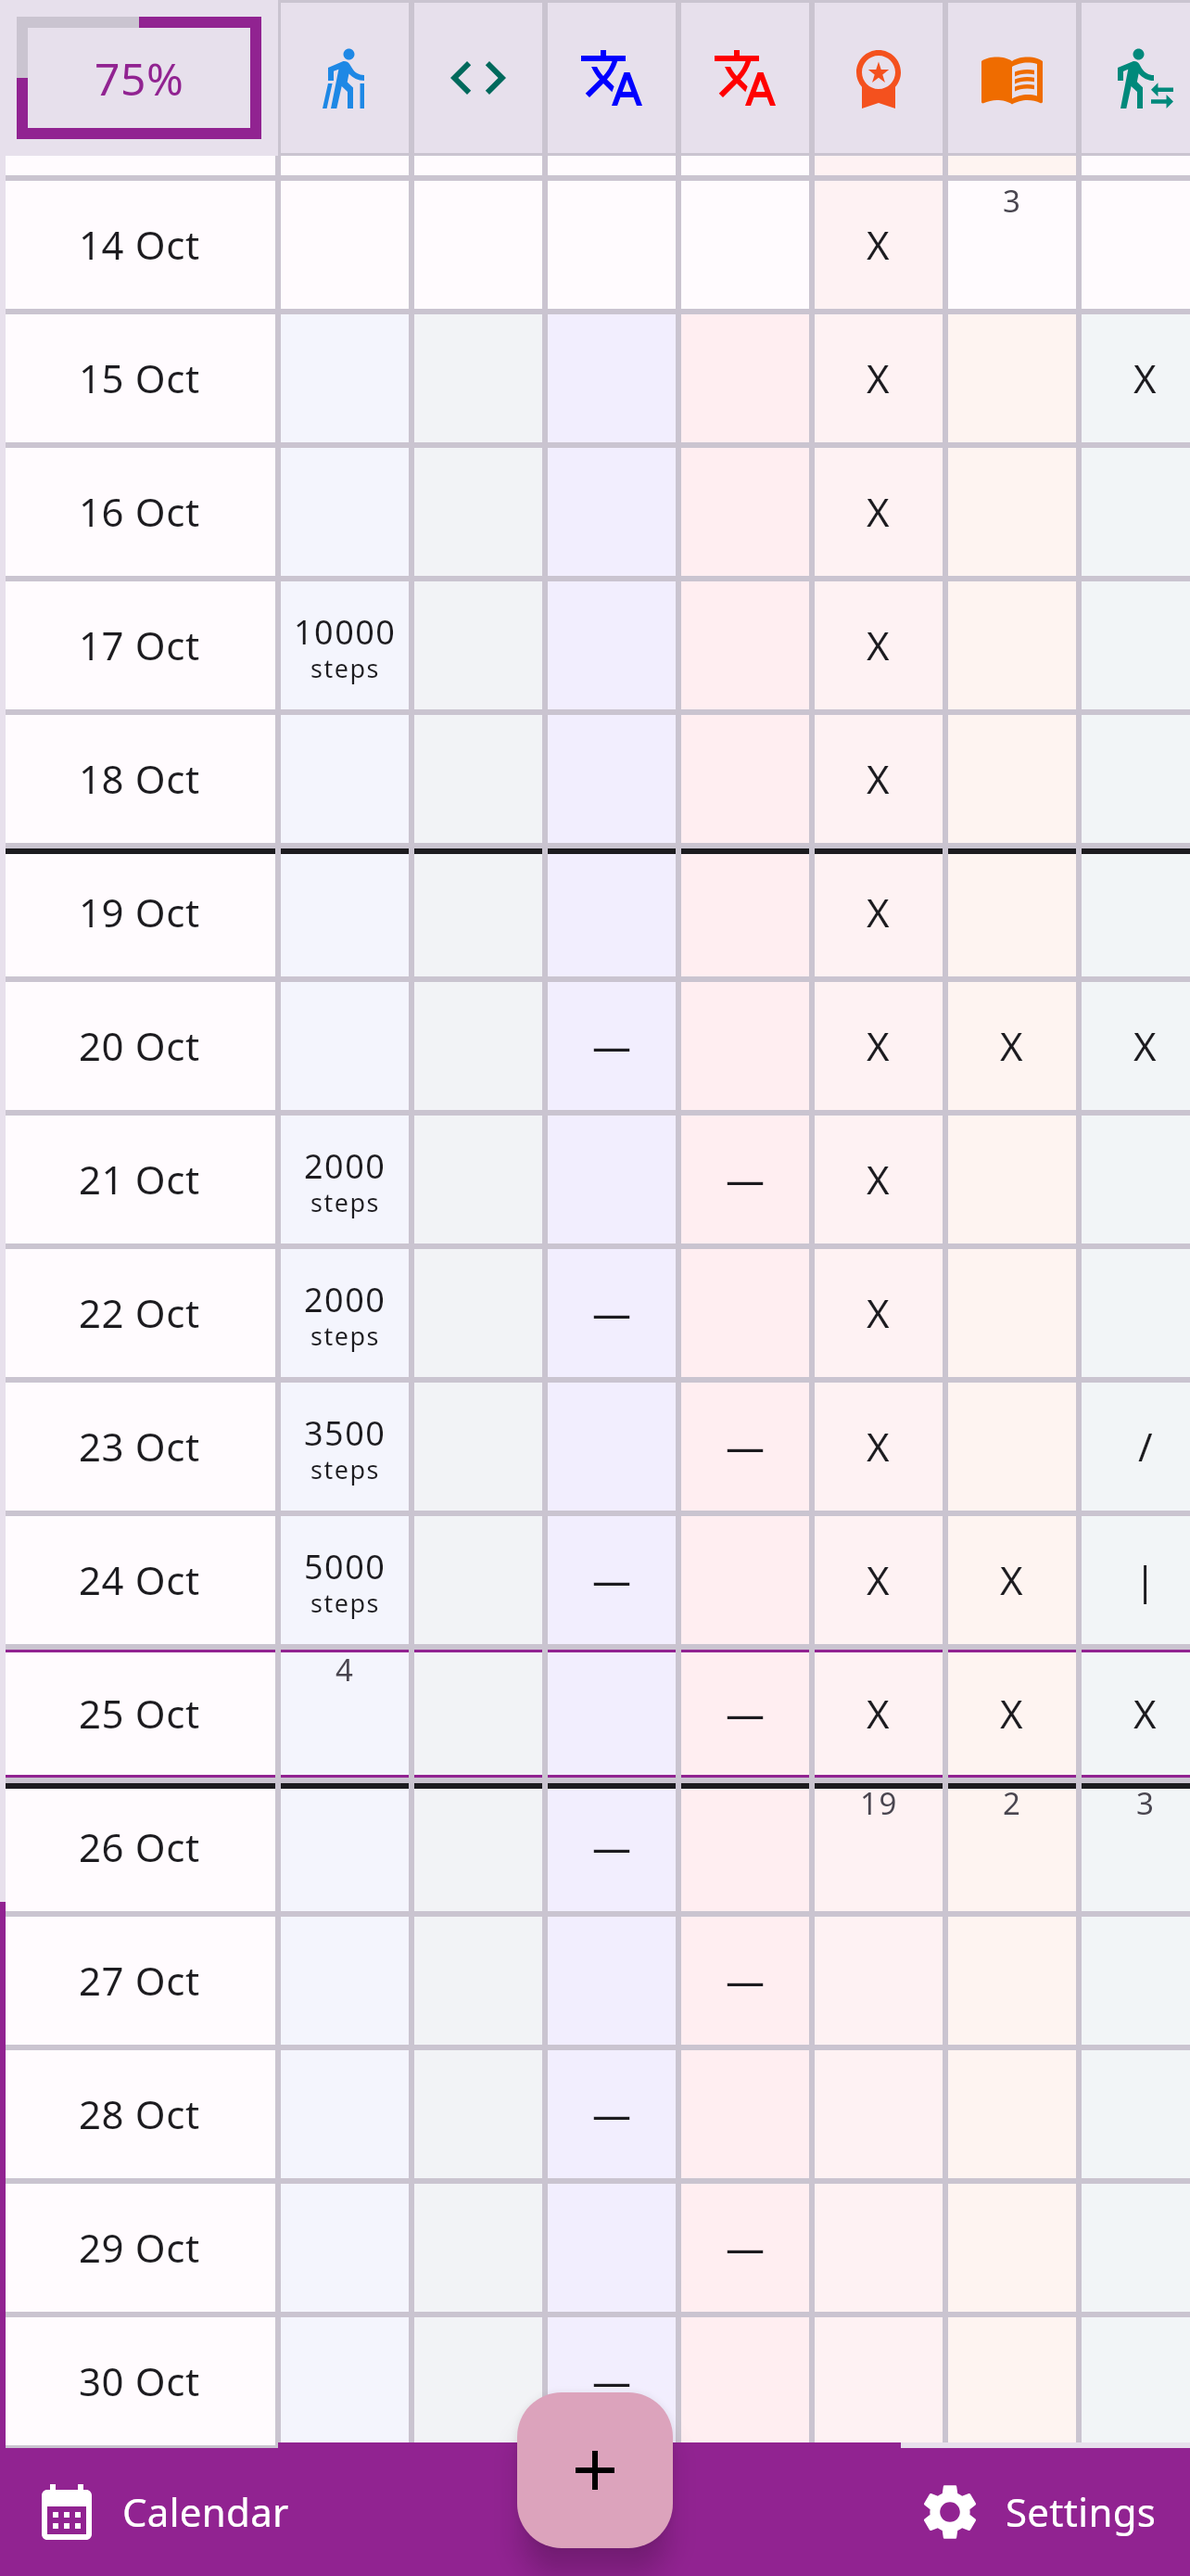
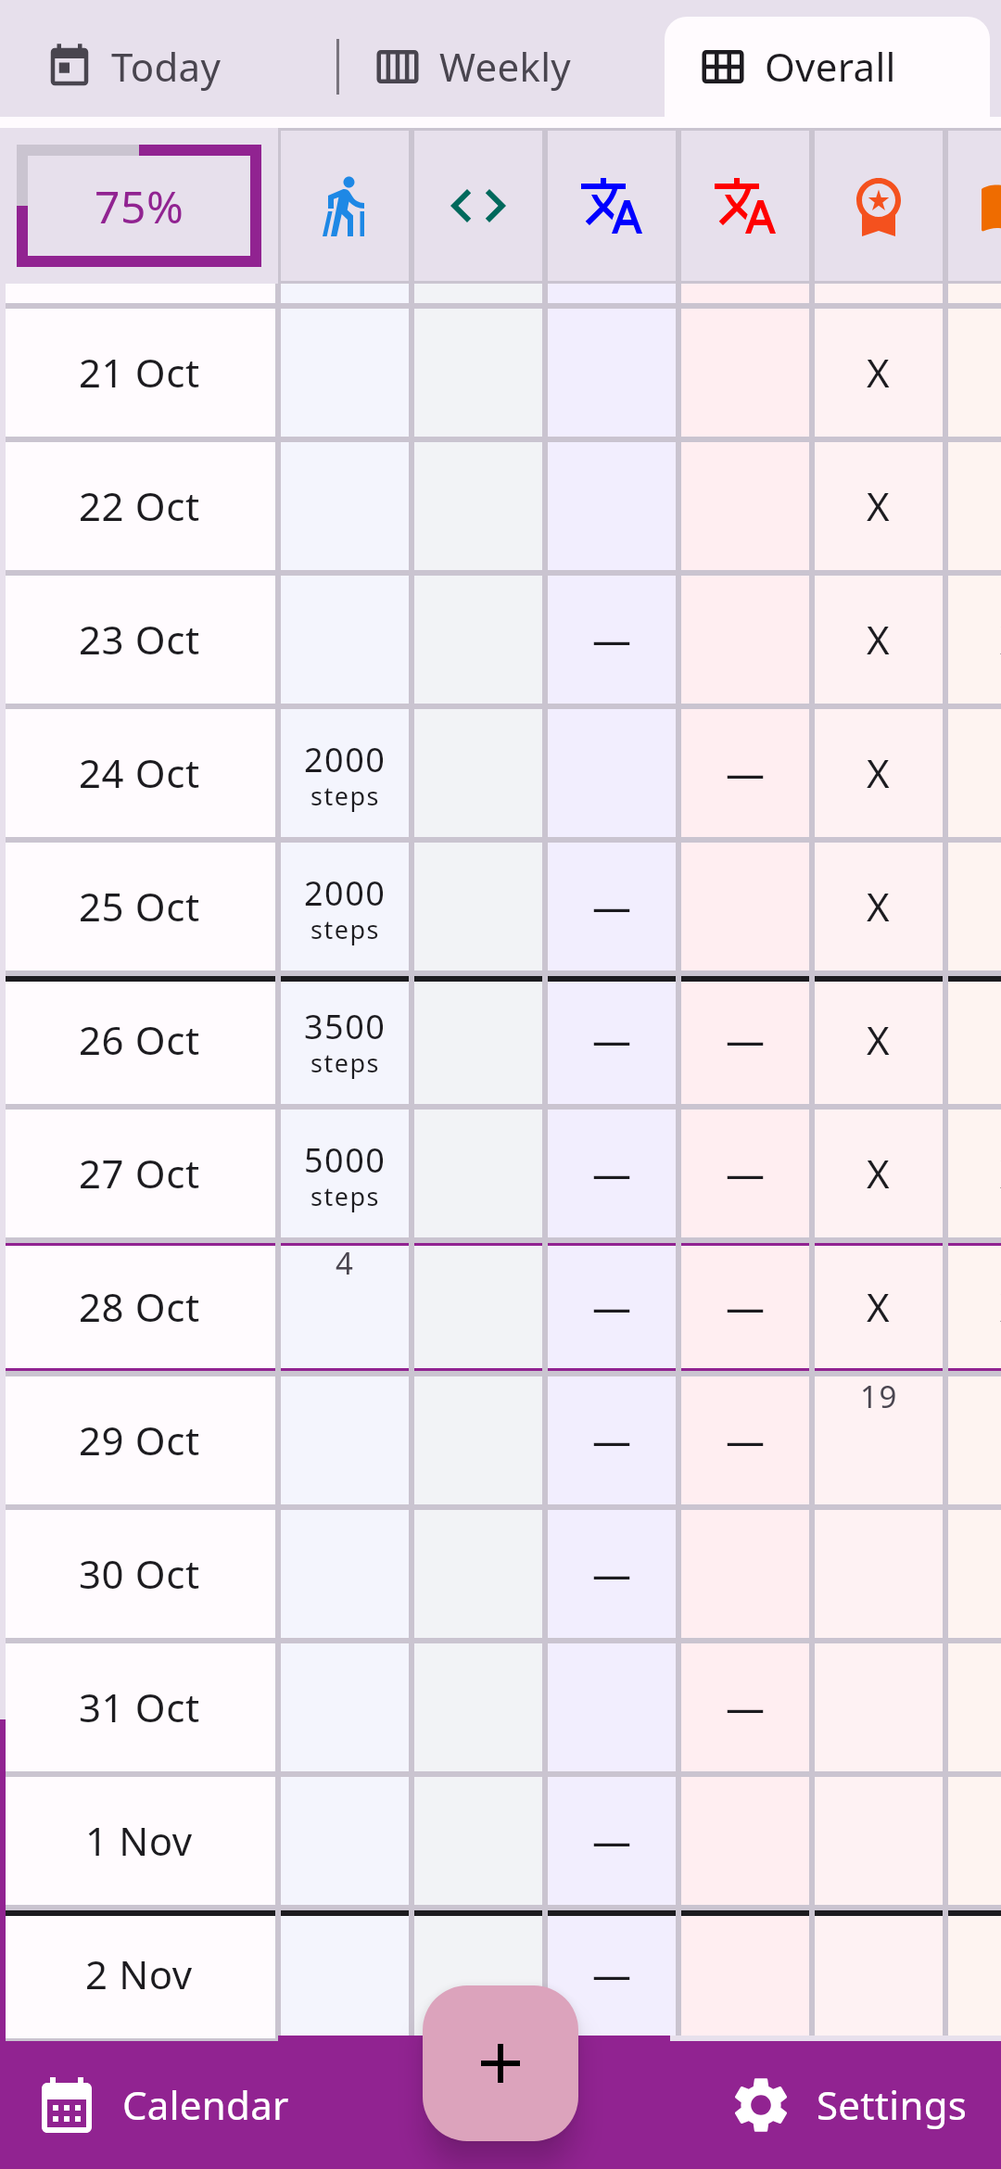
[#65] [NF] Main Page: Weekly Status. Update images

Changed region(s): [[0.0, 0.0, 1.0, 0.9983]]

diff --git a/README.md b/README.md
@@ -115,6 +115,8 @@ one is left behind.
 
 <img title="Zwyka: Metrics" src="./docs/design-flow/screenshots/9_metrics.png" width="240" /> . <img title="Zwyka: Detailed Metrics" src="./docs/design-flow/screenshots/7_detailed_metrics.png" width="240" /> . <img title="Zwyka: Timer" src="./docs/design-flow/screenshots/8_timer.png" width="240" />
 
+<img title="Zwyka: Daily" src="./docs/design-flow/screenshots/10_daily.png" width="240" /> . <img title="Zwyka: Weekly" src="./docs/design-flow/screenshots/11_weekly.png" width="240" /> .
+
 ## Support (Sponsorship)
 
 As an open-source project, subscribing will not unlock any additional features in the app. However, it would serve as
